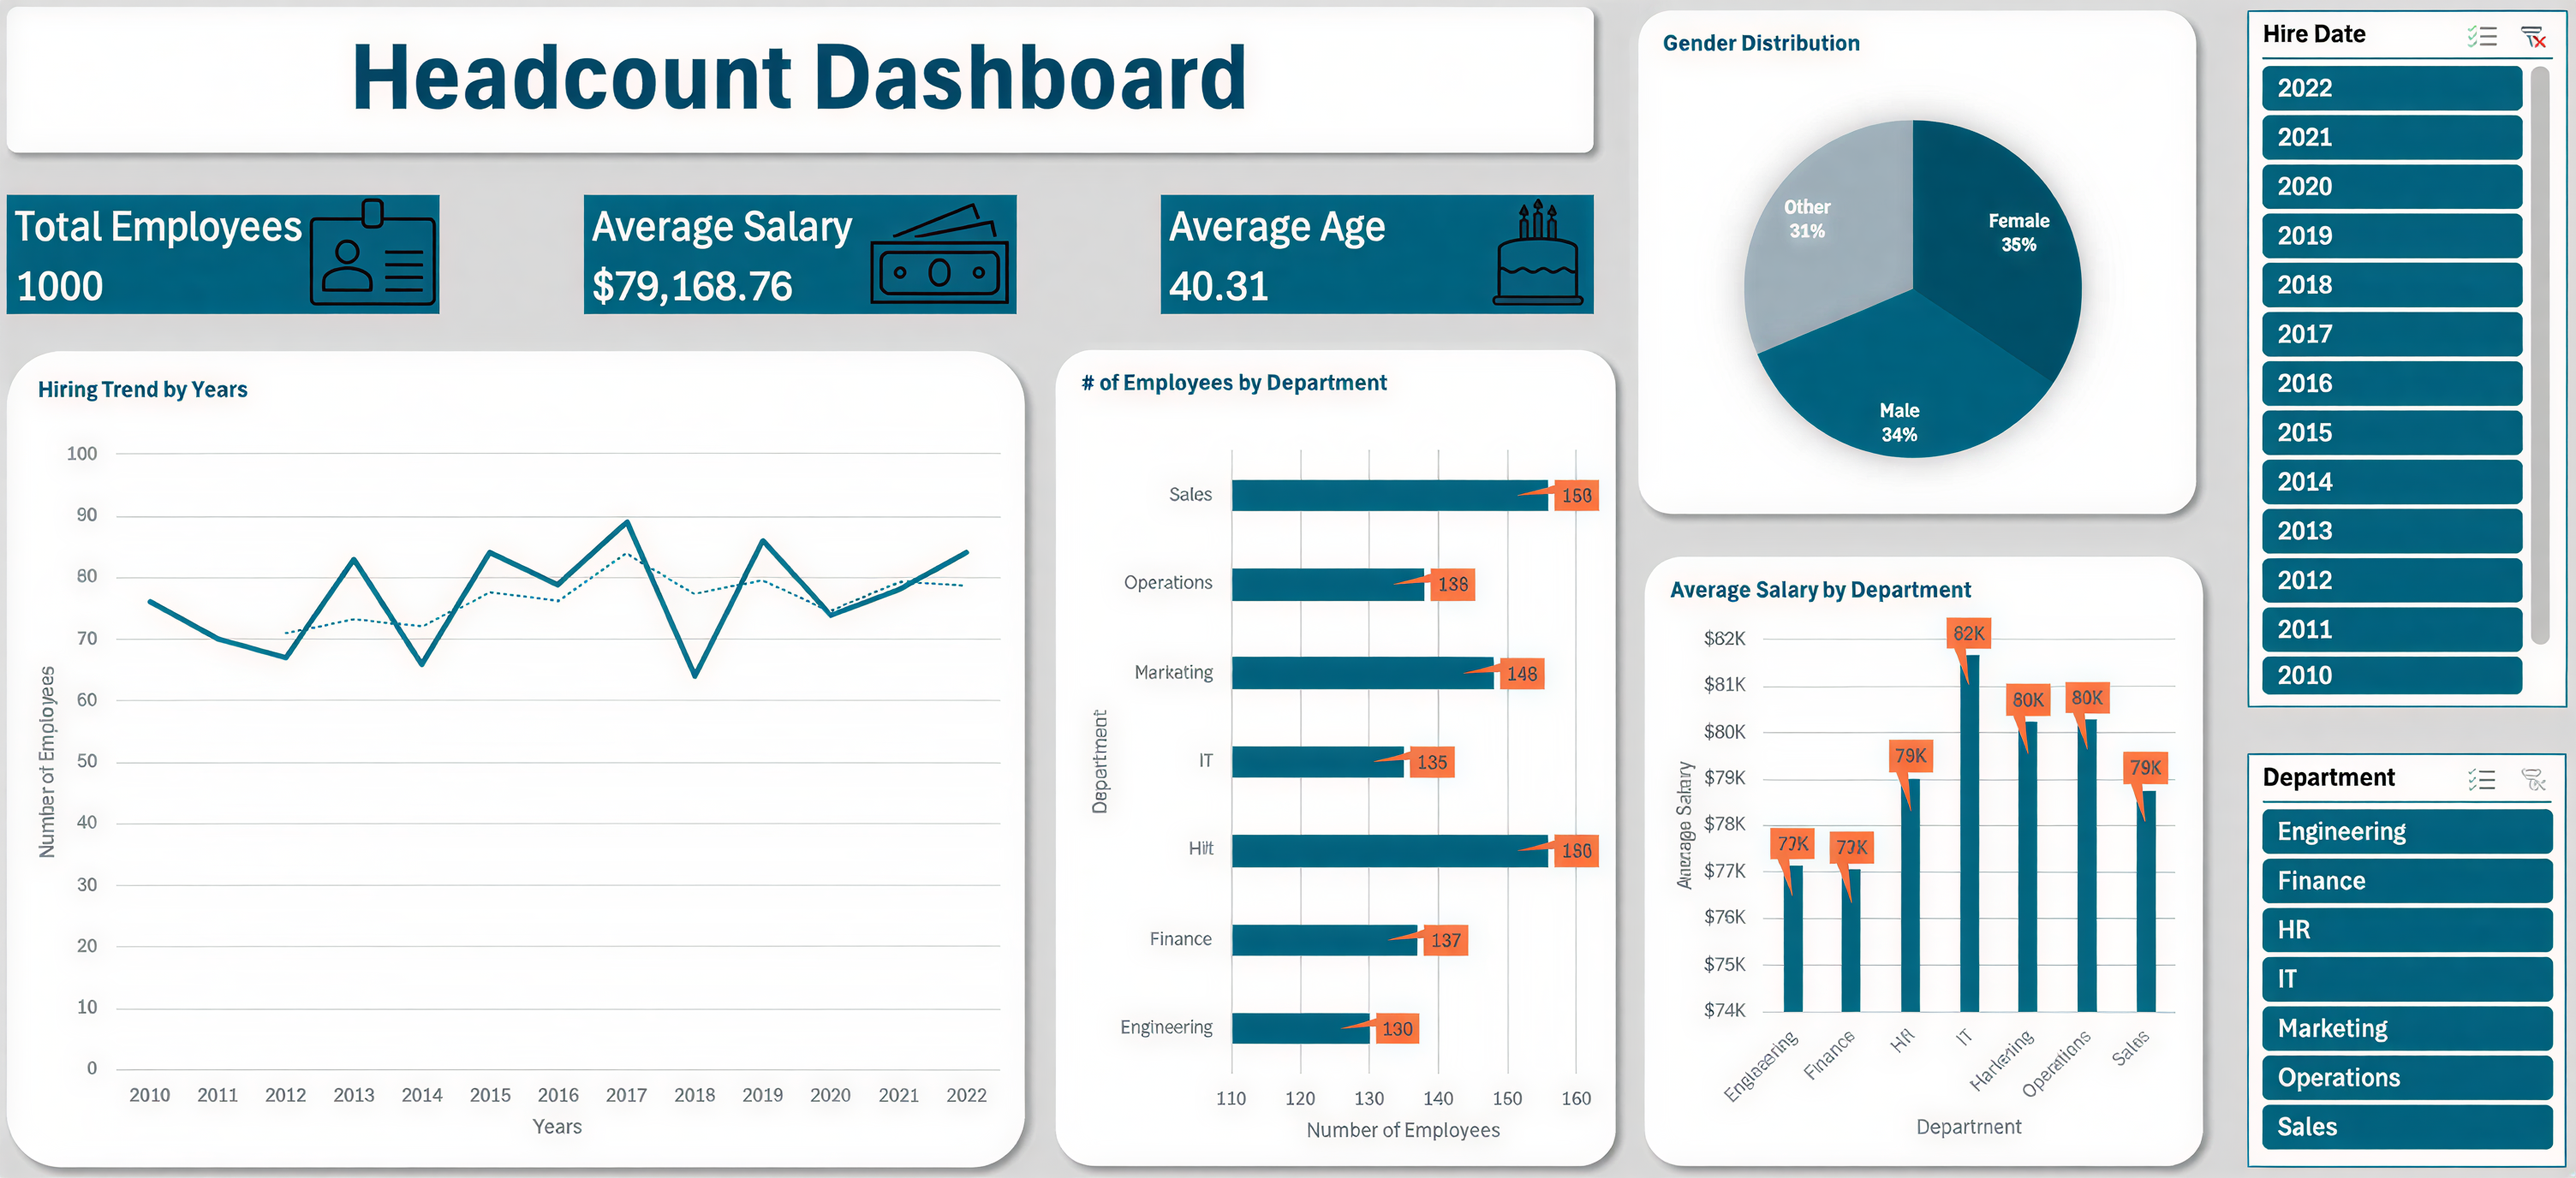
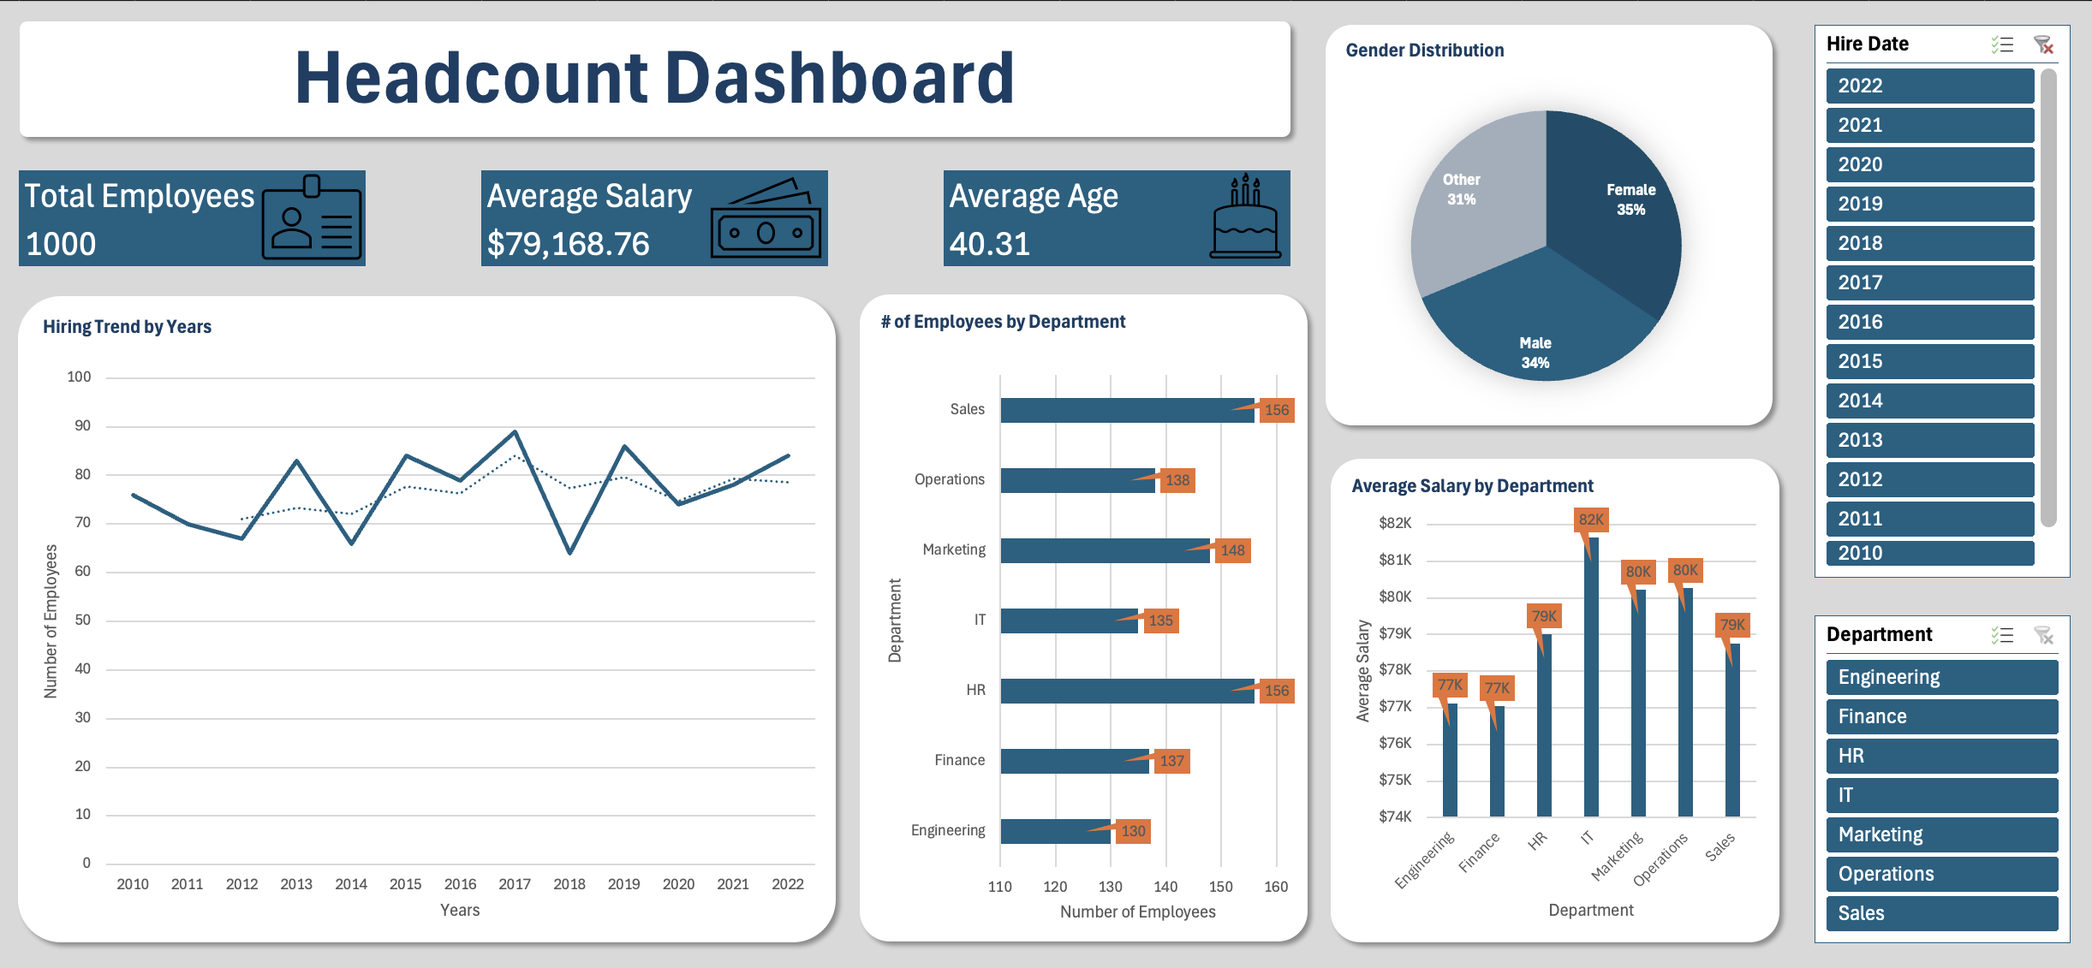
finished read me file and added updated screenshots of dashboard

diff --git a/README.md b/README.md
@@ -11,7 +11,10 @@ An Excel dashboard analyzing global sales performance across regions, products, 
 
 ## Key Features
 
-- KPIs: Total Sales, Top Product, Top Region.
+- KPIs:
+  - Total Sales
+  - Top Product
+  - Top Region
 - Interactive Slicers for Year and Country.
 - Sales by Product Category (Bar Chart).
 - Sales Trend by Year (Line Chart).
@@ -29,38 +32,83 @@ An Excel dashboard analyzing global sales performance across regions, products, 
 
 - Excel: PivotTables, PivotCharts, Slicers, GETPIVOTDATA, INDEX/MATCH.
 
+## Screenshot
+
+![alt text](./images/sales_performance_dashboard.png)
+
 # Sales Dashboard
 
 ## Overview
 
+An Excel dashboard that tracks overall sales performance, order value trends, and year-over-year growth.
+
 ## Dataset
 
+- Fields: Order Date, Customer Name, Region, Product Quantity, Unit Price, Sales Rep, Notes, Total Sales
 - Data: Sample sales dataset (fictional).
 
 ## Key Features
 
 - KPIs:
+  - Average Order Value
+  - Total Sales
+  - Number of Orders
+  - Top Selling Product
+- Interactive Slicers for Years and Sales Rep
+- YoY Growth % (Bar Chart)
+- Sales by Region (Bar Chart)
+- Sales by Year (Line Chart)
+- Average Order Value Per Year (Clustered Column - Line)
+- Sales by Sales Rep (Bar Chart)
 
 ## Insights
+
+- East Region is the top-performing region with $870,724.12.
+- Daniel King is the most successful Sales Rep with $980,842.42.
+- Sales dipped in 2023 but recovered in 2024.
+- Printers are the best-selling product with $760,724.78.
 
 ## Tools & Skills
 
 - Excel: PivotTables, PivotCharts, Slicers, GETPIVOTDATA, INDEX/MATCH.
 
-# HR Dashboard
+## Screenshot
+
+![Sales Dashboard](./images/sales_dashboard.png)
+
+# Headcount Dashboard
 
 ## Overview
 
+An Excel dashboard that presents the organizational employee data.
+
 ## Dataset
 
-- Data: Sample sales dataset (fictional).
+- Fields: Employee ID, Department, Name, JobTitle, Gender, Age, Salary, HireDate, Performance Rating
+- Data: Sample HR dataset (fictional).
 
 ## Key Features
 
 - KPIs:
+  - Total Employees
+  - Average Salary
+  - Average Age
+- Interactive Slicers for HireDate (Year) and Department
+- Hiring Trend by Years (line chart) ✔
+- Number of Employees by Department (bar chart) ✔
+- Average Salary by Department (bar chart) ✔
+- Gender Distribution (pie chart)
 
 ## Insights
+
+- IT department has the highest average salary at $82K.
+- Sales and HR both have the highest number of employees at 156.
+- Number of hires was the highest in 2017 and has gone down in the years since.
 
 ## Tools & Skills
 
 - Excel: PivotTables, PivotCharts, Slicers, GETPIVOTDATA, INDEX/MATCH.
+
+## Screenshot
+
+![alt text](./images/headcount_dashboard.png)
